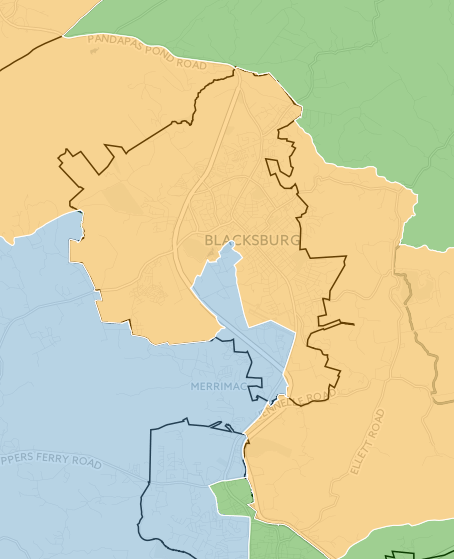
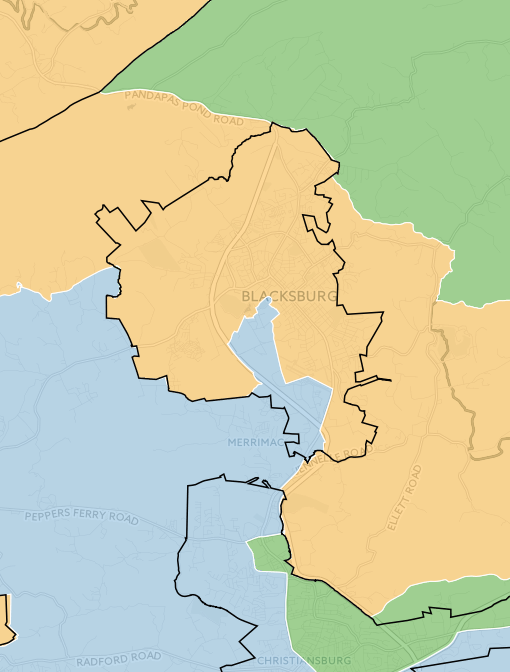
Update house images and info at top of page

diff --git a/index.html b/index.html
@@ -25,26 +25,30 @@
                 padding-bottom: 30px;
             }
             
-            #house-before-after {
-                max-width: 454px;
+            #house-images {
+                max-width: 510px;
             }
             
             #senate-images {
                 max-width: 1080px;
             }
             
-            #house-before-after, #senate-images {
+            #house-images, #senate-images {
                 margin-left: auto;
                 margin-right: auto;
             }
             
-            #senate-diff {
+            .diff {
                 display: none;
             }
             
             .image-buttons {
                 padding-bottom: 5px;
                 text-align: center;
+            }
+            
+            .footer {
+                margin-top: 20px;
             }
         </style>
         
@@ -190,12 +194,17 @@
                     }
                 });
                 
-                $("#house-before-after").twentytwenty();
-                $("#senate-compare").twentytwenty();
+                $("#house-images .compare").twentytwenty();
+                $("#senate-images .compare").twentytwenty();
                 
                 $('input[name="senate-image-type"]').change(function() {
                     $('#senate-images > div').hide();
-                    $('#senate-images > ' + $(this).attr('data-target')).show();
+                    $('#senate-images > .' + $(this).attr('data-target')).show();
+                });
+                
+                $('input[name="house-image-type"]').change(function() {
+                    $('#house-images > div').hide();
+                    $('#house-images > .' + $(this).attr('data-target')).show();
                 });
             });
         </script>
@@ -206,6 +215,8 @@
                 <h2>Will My District Change?</h2>
                 <div>
                     <p>A couple of bills in the 2015 session of the Virginia General Assembly could slightly alter voting districts in Montgomery County. Enter your address to see if you will be affected.</p>
+                    <p>Find <a href="#details">more details</a> on these changes below.</p>
+                    <p style="font-size:12px">This site was created by volunteers and the information presented should not be considered official. Visit the <a href="http://elections.virginia.gov/">Virginia Department of Elections</a> for official information.</p>
                 </div>
             </div>
             
@@ -248,7 +259,7 @@
                 </div>
             </div>
             
-            <h3>Details</h3>
+            <h3 id="details">Details</h3>
             <div>
                 <p>As <a href="http://www.roanoke.com/news/politics/montgomery_county/virginia-senate-passes-bill-to-simplify-montgomery-county-elections/article_24584a06-71b8-587e-afb3-163e11dda872.html">reported by the Roanoke Times</a>, Del. Joseph Yost, R-Pearisburg, has sponsored two bills that aim to reduce the differences between town borders and voting district boundaries.</p>
                 
@@ -257,9 +268,24 @@
                     <a href="http://lis.virginia.gov/cgi-bin/legp604.exe?151+sum+HB1417">HB 1417 House of Delegates districts; technical adjustments.</a>
                 </div>
                 <p>The changes to the Virginia House Districts in Montgomery county are aimed at making the boundaries more closely match town borders. Use the slider on the image below to see how this bill will change the districts. District 7 in blue. District 8 in green. District 12 in yellow.</p>
-                <div id="house-before-after">
-                    <img src="images/house_before.png" />
-                    <img src="images/house_after.png" />
+                <div class="image-buttons">
+                    <div class="btn-group" data-toggle="buttons">
+                        <label class="btn btn-default active">
+                            <input type="radio" name="house-image-type" data-target="twentytwenty-wrapper" autocomplete="off" checked> Compare
+                        </label>
+                        <label class="btn btn-default">
+                            <input type="radio" name="house-image-type" data-target="diff" autocomplete="off"> Difference
+                        </label>
+                    </div>
+                </div>
+                <div id="house-images">
+                    <div class="compare">
+                        <img src="images/house_before.png" />
+                        <img src="images/house_after.png" />
+                    </div>
+                    <div class="diff">
+                        <img src="images/house_diff.png" />
+                    </div>
                 </div>
                 
                 <h4>Senate District Changes</h4>
@@ -270,23 +296,22 @@
                 <div class="image-buttons">
                     <div class="btn-group" data-toggle="buttons">
                         <label class="btn btn-default active">
-                            <input type="radio" name="senate-image-type" data-target=".twentytwenty-wrapper" autocomplete="off" checked> Compare
+                            <input type="radio" name="senate-image-type" data-target="twentytwenty-wrapper" autocomplete="off" checked> Compare
                         </label>
                         <label class="btn btn-default">
-                            <input type="radio" name="senate-image-type" data-target="#senate-diff" autocomplete="off"> Difference
+                            <input type="radio" name="senate-image-type" data-target="diff" autocomplete="off"> Difference
                         </label>
                     </div>
                 </div>
                 <div id="senate-images">
-                    <div id="senate-compare">
+                    <div class="compare">
                         <img src="images/senate_before.png" />
                         <img src="images/senate_after.png" />
                     </div>
-                    <div id="senate-diff">
+                    <div class="diff">
                         <img src="images/senate_diff.png" />
                     </div>
                 </div>
-            </div>
             
             <div class="footer">
                 <p class="pull-right">

diff --git a/transformDistricts.js b/transformDistricts.js
@@ -32,6 +32,12 @@ var house12to8 = JSON.parse(fs.readFileSync('maps/va_house_12_to_8_hb1417.geojso
 var house7to12 = JSON.parse(fs.readFileSync('maps/va_house_7_to_12_hb1417.geojson', 'utf8'));
 var house8to12 = JSON.parse(fs.readFileSync('maps/va_house_8_to_12_hb1417.geojson', 'utf8'));
 
+var mergedHouseChanges = turf.merge(house12to7);
+mergedHouseChanges = turf.union(mergedHouseChanges, turf.merge(house12to8));
+mergedHouseChanges = turf.union(mergedHouseChanges, turf.merge(house7to12));
+mergedHouseChanges = turf.union(mergedHouseChanges, turf.merge(house8to12));
+write('maps/va_house_all_changes_hb1417.geojson', mergedHouseChanges);
+
 for(var i=0; i<senateDistricts.features.length; i++) {
     var feature = senateDistricts.features[i];
     var featureName = feature.properties.namelsad;
